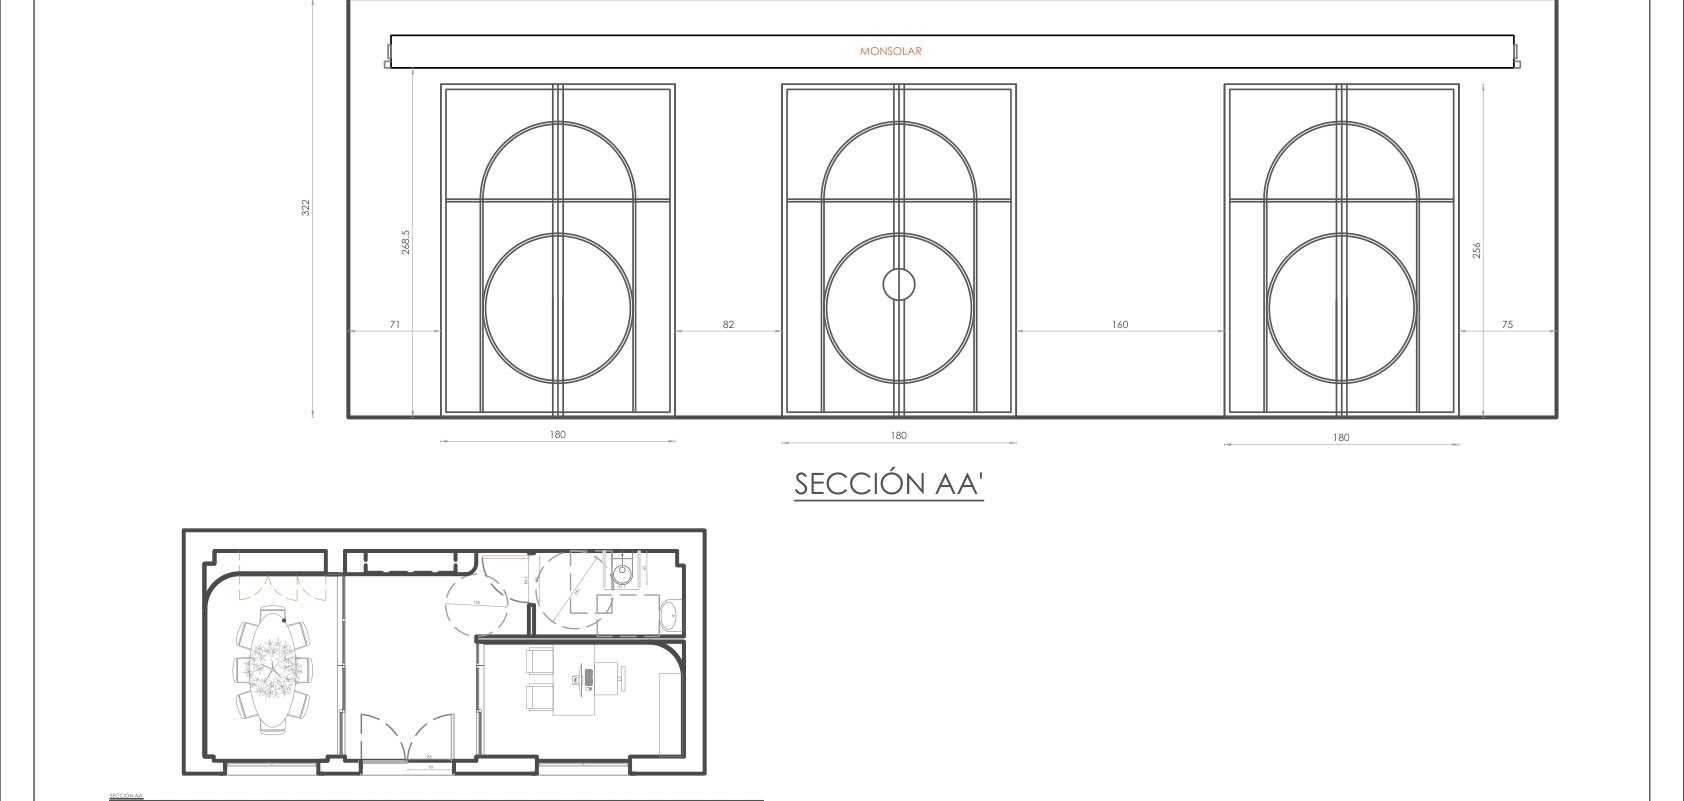
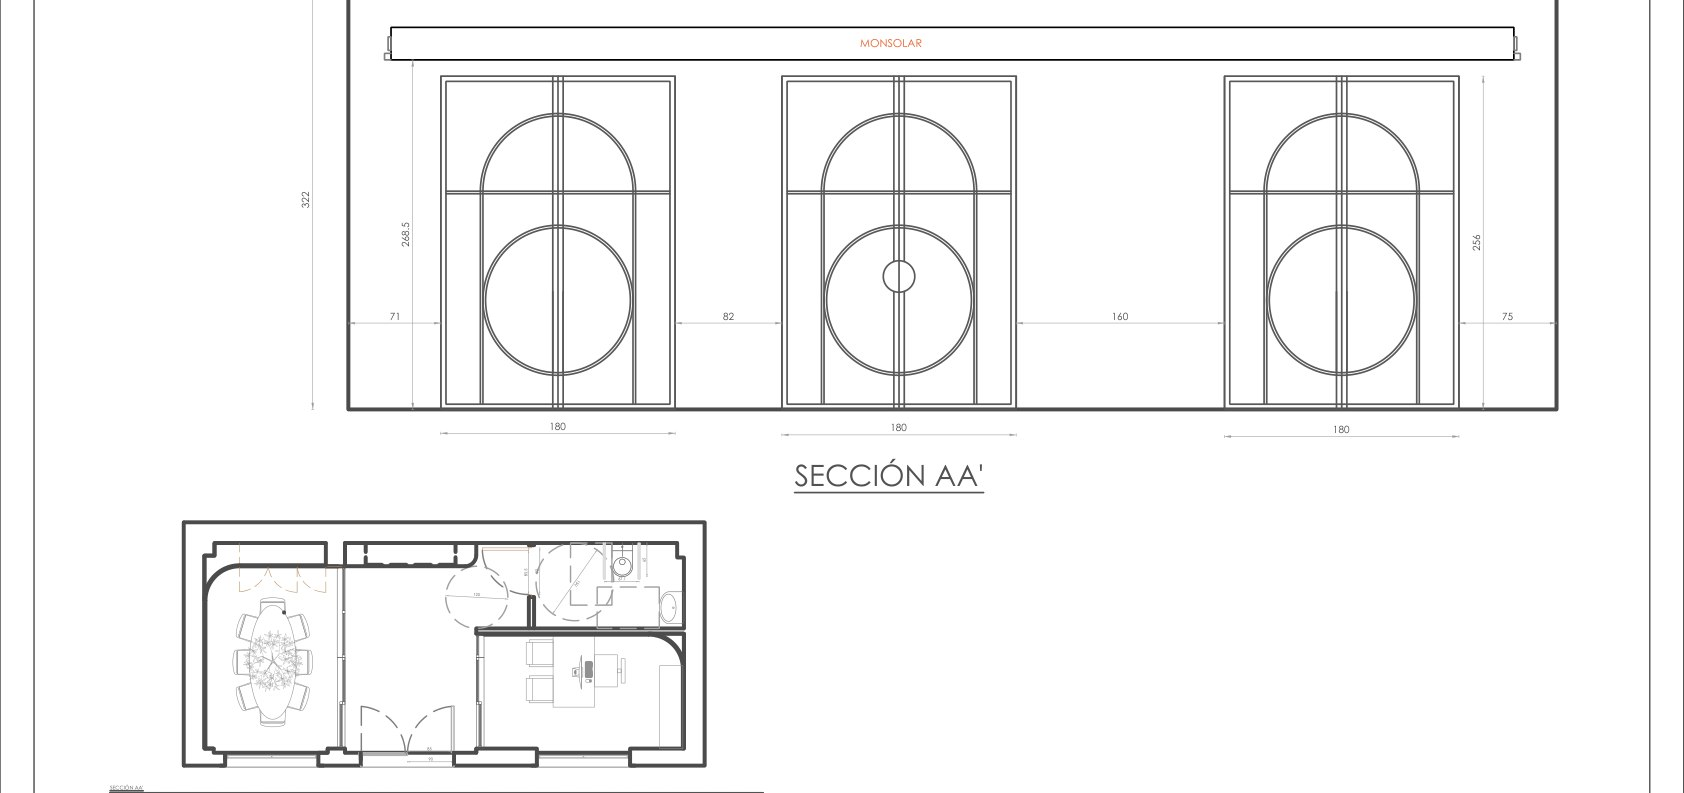
Fix imagenes GitHub Pages, quitar barras, sillas, lamparas y banos

diff --git a/src/components/ProjectDetail.tsx b/src/components/ProjectDetail.tsx
@@ -5,6 +5,7 @@ import { motion, AnimatePresence } from "framer-motion";
 import Image from "next/image";
 import SectionHeader from "./SectionHeader";
 import type { Project } from "@/lib/data";
+import { asset } from "@/lib/assets";
 
 function getRowCols(totalImages: number, index: number): string {
   const patterns: Record<number, string[]> = {
@@ -78,10 +79,10 @@ export default function ProjectDetail({ project }: { project: Project }) {
                 <figure
                   key={ci}
                   className="relative overflow-hidden bg-white group cursor-zoom-in"
-                  onClick={() => setLightbox(img.src)}
+                  onClick={() => setLightbox(asset(img.src))}
                 >
                   <Image
-                    src={img.src}
+                    src={asset(img.src)}
                     alt={img.caption ?? project.title}
                     width={1200}
                     height={800}
@@ -117,7 +118,7 @@ export default function ProjectDetail({ project }: { project: Project }) {
               &#10005;
             </button>
             <Image
-              src={lightbox}
+              src={lightbox ?? ""}
               alt=""
               width={1600}
               height={1000}

diff --git a/src/components/Projects.tsx b/src/components/Projects.tsx
@@ -4,6 +4,7 @@ import { motion, AnimatePresence } from "framer-motion";
 import Image from "next/image";
 import SectionHeader from "./SectionHeader";
 import { projects } from "@/lib/data";
+import { asset } from "@/lib/assets";
 import type { Filter } from "./Portfolio";
 
 const filters: { value: Filter; label: string }[] = [
@@ -94,7 +95,7 @@ export default function Projects({ active, onFilterChange }: Props) {
                   }`}
                 >
                   <Image
-                    src={project.thumbnail}
+                    src={asset(project.thumbnail)}
                     alt={project.title}
                     fill
                     className="object-contain bg-stone-50 transition-transform duration-700 ease-out group-hover:scale-[1.02]"

diff --git a/src/components/Hero.tsx b/src/components/Hero.tsx
@@ -2,6 +2,7 @@
 
 import { motion } from "framer-motion";
 import Image from "next/image";
+import { asset } from "@/lib/assets";
 
 export default function Hero() {
   return (
@@ -53,7 +54,7 @@ export default function Hero() {
         className="relative flex items-center justify-center min-h-[500px] lg:min-h-[700px] bg-stone-50"
       >
         <Image
-          src="/img/marta-hero.jpg"
+          src={asset("/img/marta-hero.jpg")}
           alt="Marta Gea"
           width={768}
           height={1024}

diff --git a/src/lib/data.ts b/src/lib/data.ts
@@ -33,9 +33,6 @@ export const projects: Project[] = [
       { src: "/img/projects/edifica-alzado-despacho.jpg" },
       { src: "/img/projects/edifica-mostrador.jpg" },
       { src: "/img/projects/edifica-materialidad.jpg" },
-      { src: "/img/projects/edifica-sillas.jpg" },
-      { src: "/img/projects/edifica-iluminacion.jpg" },
-      { src: "/img/projects/edifica-sanitarios.jpg" },
       { src: "/img/projects/edifica-infografia-1.jpg" },
       { src: "/img/projects/edifica-infografia-2.jpg" },
     ],

diff --git a/src/lib/assets.ts b/src/lib/assets.ts
@@ -1,0 +1,6 @@
+export const basePath = process.env.NEXT_PUBLIC_BASE_PATH ?? "";
+
+export function asset(path: string): string {
+  if (!path.startsWith("/")) return path;
+  return `${basePath}${path}`;
+}
